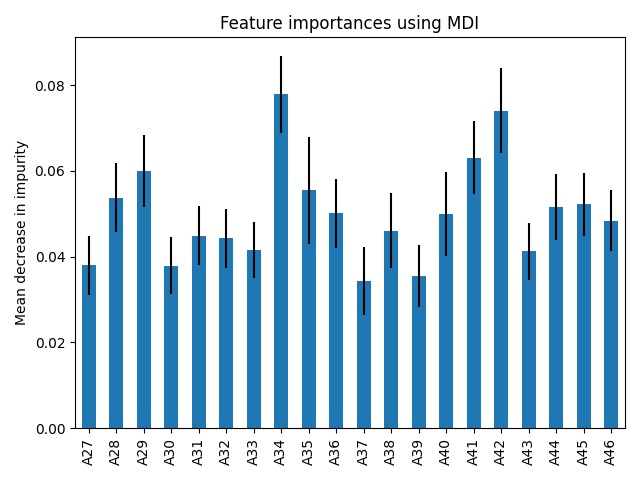
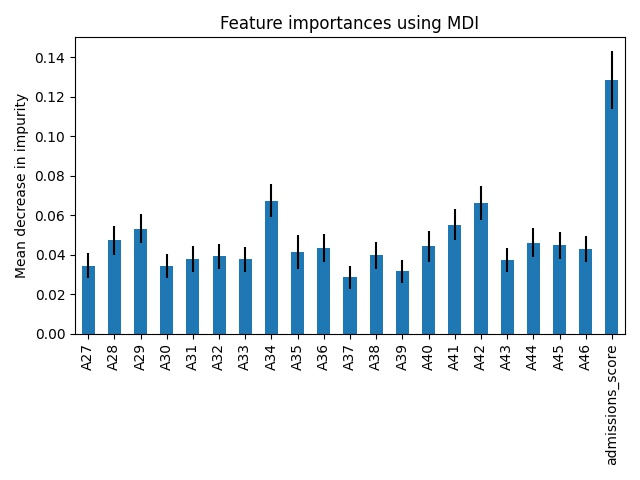
some working models

Changed region(s): [[0.0, 0.1562, 0.9688, 0.9688], [0.0625, 0.0938, 0.0938, 0.125]]

diff --git a/ml_helpers.py b/ml_helpers.py
@@ -2,12 +2,13 @@ from sklearn.model_selection import train_test_split
 from sklearn.metrics import mean_squared_error
 from sklearn.metrics import confusion_matrix, classification_report, r2_score
 from sklearn.utils import resample
+from matplotlib import pyplot as plt
 import numpy as np
 import math
 from sklearn.metrics import confusion_matrix, precision_recall_fscore_support,\
 classification_report, roc_auc_score, f1_score, mean_absolute_error, mean_squared_error, accuracy_score
 
-def get_features_labels(df_input, input, output, includePreSI=False):
+def get_features_labels_all_admissions_PCL(df_input, input, output, includePreSI=False):
     df = df_input[:]
     if input == 'all_data_admissions':
         strings = df.columns.tolist()
@@ -16,6 +17,8 @@ def get_features_labels(df_input, input, output, includePreSI=False):
             string_arr = list(string)
             if string == output:
                 pass
+            elif string == 'admissions_score':
+                strs.remove(string)
             elif string_arr[0] != 'A':
                 strs.remove(string)
             elif int(string[1:]) == 99 and not includePreSI:
@@ -25,16 +28,10 @@ def get_features_labels(df_input, input, output, includePreSI=False):
             df.pop(column)
         df = df.dropna(thresh=df.shape[1], axis=0)
         labels = df.loc[:, output]
+
         df.pop(output)
         features = df
         return features, labels
-    else:
-        # features = df[['admissions_score', 'inputs_omitted']].copy()
-        # df = df.dropna(thresh=df.shape[1], axis=0)
-        # features = df[['admissions_score']].copy()
-        # labels = df.loc[:, output]
-        # return features, labels
-        pass
 
 def split_training_test(features, labels):
     train_features, test_features, train_labels, test_labels = train_test_split(features, labels, test_size=0.25,
@@ -83,7 +80,7 @@ def get_errors_and_accuracy_regression(predictions, test_labels, name):
     error_percents = []
     for i in range(len(test_labels)):
         diff = abs(test_labels[i] - predictions[i])
-        error_per = float(diff) / test_labels[i] * 100
+        error_per = float(diff) / 4.0 * 100
         # if error_per > 49:
         #     print(test_labels[i] , predictions[i])
         # elif test_labels[i] > 1:
@@ -93,7 +90,7 @@ def get_errors_and_accuracy_regression(predictions, test_labels, name):
     mape2 = round(float(sum(error_percents))/len(error_percents), 2)
     mape = np.mean((np.abs(predictions - test_labels) / test_labels) * 100)
     # print(error_percents)
-    print("MAPE: " + str(mape2))
+    print("MAPE: " + str(mape))
     print('Mean Absolute Error:' + name + ':', round(float(errors.mean()), 2), 'points')
     # print('MAE: ', mean_absolute_error(predictions, test_labels))
     print('MSE: ', mean_squared_error(predictions, test_labels))

diff --git a/data_cleaning.py b/data_cleaning.py
@@ -13,6 +13,8 @@ def remove_unnecessary_columns(input_file):
         data.pop(column)
 
     # drop the row if any of the values are null
+    # data_new = data.dropna(thresh=data.shape[1], axis=0)
+    data = data.dropna()
     return data
 
 def find_unnecessary_columns(input_file):
@@ -27,6 +29,8 @@ def find_unnecessary_columns(input_file):
             necessary_columns.remove(string)
         elif string_arr[0] == 'D' and ((int(string[1:]) > 27 or int(string[1:]) < 8) and int(string[1:]) != 60):
             necessary_columns.remove(string)
+        # elif string_arr[0] == "A" and ((int(string[1:]) > 62 or int(string[1:]) < 27) and int(string[1:]) != 99 and not (int(string[1:]) < 106 and int(string[1:]) > 91)):
+        #     necessary_columns.remove(string)
         elif string_arr[0] == "A" and ((int(string[1:]) > 46 or int(string[1:]) < 27) and int(string[1:]) != 99):
             necessary_columns.remove(string)
     return list(set(all_cols) - set(necessary_columns))
@@ -50,6 +54,7 @@ def calculate_PTSD_scores_add_to_and_return_new_dataframe(df):
     diff_scores = []
     healeds = []
     inputs_omitteds = []
+    SHI_positivity = []
 
     for index, row in df.iterrows():
         admissions_score = 0  # the admissions and dischrage score only take into account scores for which there is both an
@@ -65,6 +70,11 @@ def calculate_PTSD_scores_add_to_and_return_new_dataframe(df):
                 discharge_score += row[map_admissions_cols[key]]
             else:
                 inputs_omitted += 1
+
+        if row['D60'] > 1:
+            SHI_positivity.append(1)
+        else:
+            SHI_positivity.append(0)
 
         if admissions_score - discharge_score > 0:
             respond = 1
@@ -84,10 +94,12 @@ def calculate_PTSD_scores_add_to_and_return_new_dataframe(df):
         diff_scores.append(diff_score)
         healeds.append(healed)
         inputs_omitteds.append(inputs_omitted)
+
     df['admissions_score'] = admissions_scores
     df['discharge_score'] = discharge_scores
     df['respond'] = responds
     df['healed'] = healeds
     df['diff_score'] = diff_scores
     df['inputs_omitted'] = inputs_omitteds
+    df['SHI_positivity'] = SHI_positivity
     return df

diff --git a/rf_classifier_treatment_improvement.py b/rf_classifier_treatment_improvement.py
@@ -1,0 +1,40 @@
+from rf_classifier import *
+
+def predict_diff_score_w_all_admissions(df_all):
+    df_all = df_all[df_all['diff_score'] > 0]
+    # print(df_all['diff_score'])
+    features, labels = get_features_labels_all_admissions_ALL(df_all, 'all_data_admissions', 'diff_score')
+    run_random_forest_classifier_model(features, labels, 'predict_diff_score_w_all_admissions')
+
+def predict_diff_score_w_admissions_score(df_all):
+    features, labels = get_features_labels_all_admissions_ALL(df_all, 'admissions_score', 'diff_score')
+    run_random_forest_classifier_model(features, labels, 'predict_diff_score_w_admissions_score')
+
+def predict_discharge_score_w_all_admissions(df_all):
+    features, labels = get_features_labels_all_admissions_ALL(df_all, 'all_data_admissions', 'discharge_score')
+    run_random_forest_classifier_model(features, labels, 'predict_discharge_score_w_all_admissions')
+
+def predict_discharge_score_w_admissions_score(df_all):
+    features, labels = get_features_labels_all_admissions_ALL(df_all, 'admissions_score', 'discharge_score')
+    run_random_forest_classifier_model(features, labels, 'predict_discharge_score_w_admissions_score')
+
+def predict_ptsd_healed_w_all_admissions(df_all):
+    features, labels = get_features_labels_all_admissions_ALL(df_all, 'all_data_admissions', 'healed')
+    run_random_forest_classifier_model(features, labels, 'predict_ptsd_healed_w_all_admissions')
+
+def predict_ptsd_healed_w_admissions_score(df_all):
+    features, labels = get_features_labels_all_admissions_ALL(df_all, 'admissions_score', 'healed')
+    run_random_forest_classifier_model(features, labels, 'predict_ptsd_healed_w_admissions_score')
+
+def run_treatment_improvement_models(df_all):
+    print('*' * 50)
+    print('TREATMENT IMPROVEMENT MODELS')
+    print('*' * 50)
+    # predict_diff_score_w_all_admissions(df_all)
+    # predict_diff_score_w_admissions_score(df_all)
+    #
+    # predict_discharge_score_w_all_admissions(df_all)
+    # predict_discharge_score_w_admissions_score(df_all)
+    #
+    # predict_ptsd_healed_w_all_admissions(df_all)
+    # predict_discharge_score_w_admissions_score(df_all)

diff --git a/rf_classifier_SHI.py b/rf_classifier_SHI.py
@@ -1,0 +1,34 @@
+from rf_classifier import*
+from ml_helpers import *
+
+def predict_SI_pre_treatment(df_all):
+    df_all = df_all[df_all['A35'] != 0]
+    features, labels = get_features_labels_all_admissions_PCL(df_all, 'all_data_admissions', 'A99')
+    run_random_forest_classifier_model(features, labels, "predict_SI_pre_treatment", baseline=True)
+
+def predict_SI_post_treatment_w_pre_SI(df_all):
+    df_all = df_all[df_all['A35'] != 0]
+    features, labels = get_features_labels_all_admissions_PCL(df_all, 'all_data_admissions', 'D60', includePreSI=True)
+    run_random_forest_classifier_model(features, labels, "predict_SI_post_treatment_w_pre_SI", baseline=True)
+
+def predict_SI_post_treatment_wo_pre_SI(df_all):
+    # print(df_all.size / len(list(df_all.columns)))
+    # print(df_all.columns)
+    # df_all = df_all[df_all['A99'] != 0]
+    # print(df_all.size / len(list(df_all.columns)))
+    features, labels = get_features_labels_all_admissions_PCL(df_all, 'all_data_admissions', 'D60', includePreSI=False)
+    run_random_forest_classifier_model(features, labels, "predict_SHI_post_treatment_wo_pre_SI", baseline=False)
+
+def predict_SI_positivity_post_treatment_wo_pre_SI(df_all):
+    features, labels = get_features_labels_all_admissions_PCL(df_all, 'all_data_admissions', 'SHI_positivity', includePreSI=False)
+    run_random_forest_classifier_model(features, labels, "predict_SHI_positivity_post_treatment_wo_pre_SHI", baseline=False)
+
+def run_SHI_rf_classifier_models(df_all):
+    print('*' * 50)
+    print('SELF HARM IDEATION MODELS RANDOM FOREST CLASSIFIER')
+    print('*' * 50)
+
+    # predict_SI_pre_treatment(df_all)
+    # predict_SI_post_treatment_w_pre_SI(df_all)
+    predict_SI_post_treatment_wo_pre_SI(df_all)
+    predict_SI_positivity_post_treatment_wo_pre_SI(df_all)

diff --git a/gbc_SHI.py b/gbc_SHI.py
@@ -2,15 +2,15 @@ from gbc import*
 from ml_helpers import *
 
 def predict_SI_pre_treatment(df_all):
-    features, labels = get_features_labels(df_all, 'all_data_admissions', 'A99')
+    features, labels = get_features_labels_all_admissions_ALL(df_all, 'all_data_admissions', 'A99')
     run_gradient_boosting_classifier_model(features, labels, "predict_SI_pre_treatment", baseline=True)
 
 def predict_SI_post_treatment_w_pre_SI(df_all):
-    features, labels = get_features_labels(df_all, 'all_data_admissions', 'D60', includePreSI=True)
+    features, labels = get_features_labels_all_admissions_ALL(df_all, 'all_data_admissions', 'D60', includePreSI=True)
     run_gradient_boosting_classifier_model(features, labels, "predict_SI_post_treatment_w_pre_SI", baseline=True)
 
 def predict_SI_post_treatment_wo_pre_SI(df_all):
-    features, labels = get_features_labels(df_all, 'all_data_admissions', 'D60', includePreSI=False)
+    features, labels = get_features_labels_all_admissions_ALL(df_all, 'all_data_admissions', 'D60', includePreSI=False)
     run_gradient_boosting_classifier_model(features, labels, "predict_SI_post_treatment_wo_pre_SI", baseline=True)
 
 def run_SHI_gbc_models(df_all):

diff --git a/lr_SHI.py b/lr_SHI.py
@@ -2,15 +2,15 @@ from lr import*
 from ml_helpers import *
 
 def predict_SI_pre_treatment(df_all):
-    features, labels = get_features_labels(df_all, 'all_data_admissions', 'A99')
+    features, labels = get_features_labels_all_admissions_ALL(df_all, 'all_data_admissions', 'A99')
     run_logistical_regression_model(features, labels, "predict_SI_pre_treatment", baseline=True)
 
 def predict_SI_post_treatment_w_pre_SI(df_all):
-    features, labels = get_features_labels(df_all, 'all_data_admissions', 'D60', includePreSI=True)
+    features, labels = get_features_labels_all_admissions_ALL(df_all, 'all_data_admissions', 'D60', includePreSI=True)
     run_logistical_regression_model(features, labels, "predict_SI_post_treatment_w_pre_SI", baseline=True)
 
 def predict_SI_post_treatment_wo_pre_SI(df_all):
-    features, labels = get_features_labels(df_all, 'all_data_admissions', 'D60', includePreSI=False)
+    features, labels = get_features_labels_all_admissions_ALL(df_all, 'all_data_admissions', 'D60', includePreSI=False)
     run_logistical_regression_model(features, labels, "predict_SI_post_treatment_wo_pre_SI", baseline=True)
 
 def run_SHI_lr_models(df_all):

diff --git a/main.py b/main.py
@@ -1,9 +1,9 @@
 from data_cleaning import *
 from metric_outputs import get_SI_metrics
-from rf_SHI import *
+from rf_classifier_SHI import *
 from lr_SHI import *
 from gbc_SHI import *
-from rf_treatment_improvement import *
+from rf_classifier_treatment_improvement import *
 
 if __name__ == "__main__":
     # First convert the sharepoint files to csvs
@@ -17,13 +17,13 @@ if __name__ == "__main__":
     # Combine the two dataframes into one with an inner join
     df_merged = pd.concat([df_2019, df_2020])
     # get_SI_metrics(df_merged)
-
+    # print(df_merged.columns)
     # update the dataframe with the new columns: admissions_score, discharge_score, inputs omitted, response, \
     # diff_score, ptsd_healed
     df_all = calculate_PTSD_scores_add_to_and_return_new_dataframe(df_merged)
     # get_admissions_discharge_score_metrics(df_all)
 
-    run_SHI_rf_models(df_all)
+    run_SHI_rf_classifier_models(df_all)
     # run_SHI_lr_models(df_all)
     # run_SHI_gbc_models(df_all)
-    run_treatment_improvement_models(df_all)
+    # run_treatment_improvement_models(df_all)

diff --git a/rf_classifier.py b/rf_classifier.py
@@ -2,7 +2,7 @@ from sklearn.ensemble import RandomForestClassifier, RandomForestRegressor
 from ml_helpers import *
 from metric_outputs import *
 
-def run_random_forest_model(features, labels, name, baseline=False, supress_debug=True):
+def run_random_forest_classifier_model(features, labels, name, baseline=False, supress_debug=True):
     train_features, test_features, train_labels, test_labels = split_training_test(features, labels)
 
     if baseline:
@@ -11,7 +11,7 @@ def run_random_forest_model(features, labels, name, baseline=False, supress_debu
         get_errors_and_accuracy_regression(predictions, test_labels, 'BASELINE_' + str(name))
         print()
 
-    rf = RandomForestClassifier(n_estimators=3000, random_state=42, bootstrap=True)
+    rf = RandomForestClassifier(n_estimators=3000, random_state=45, bootstrap=True)
     rf.fit(train_features, train_labels)
     predictions = rf.predict(test_features)
     # print(predictions)
